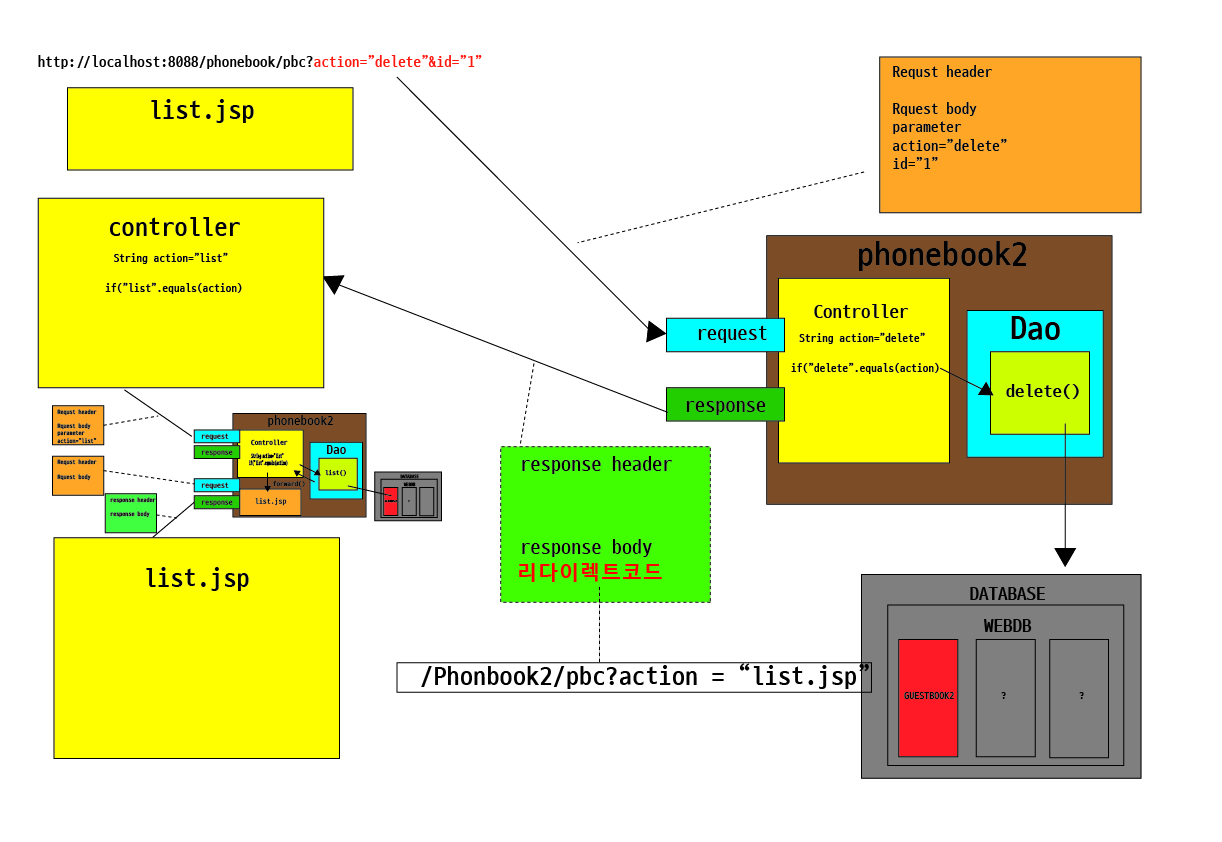
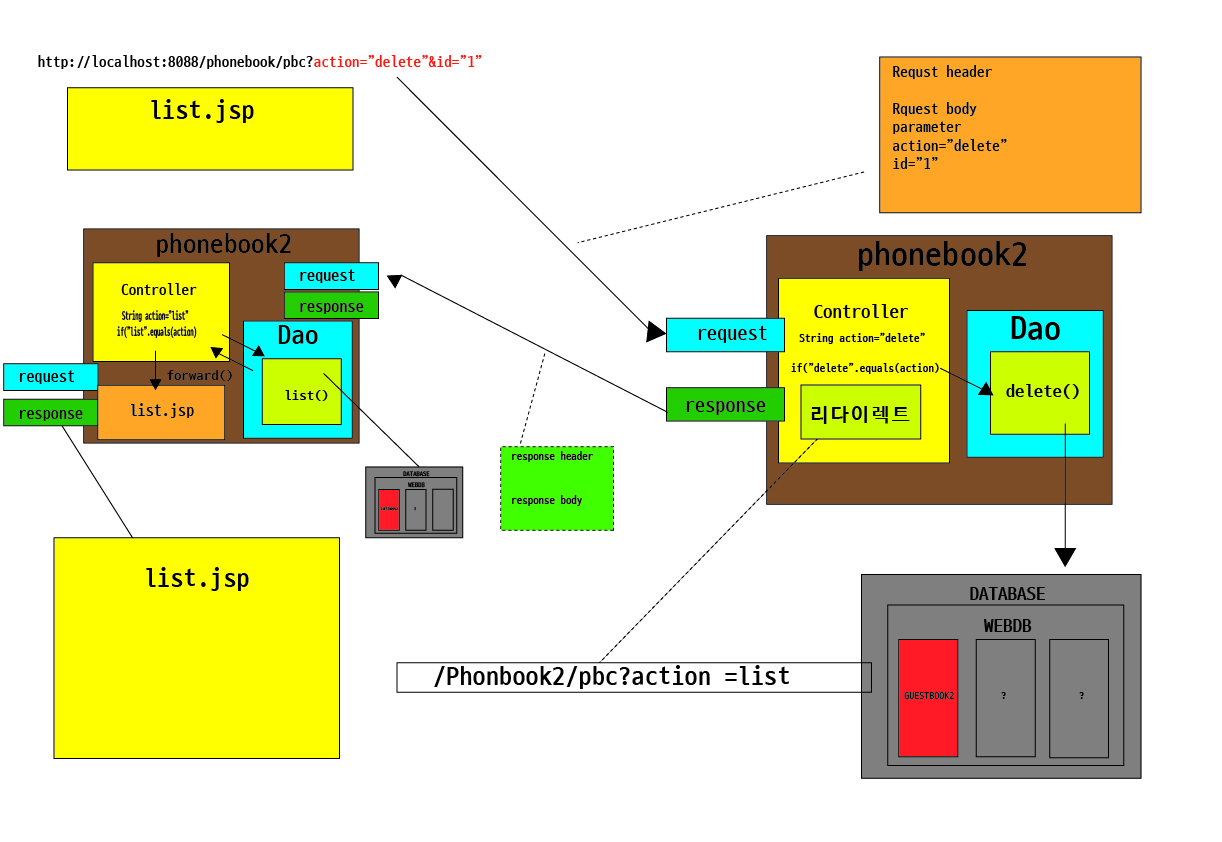
그림수정

diff --git a/src/com/javaex/controller/PhoneController.java b/src/com/javaex/controller/PhoneController.java
@@ -61,6 +61,8 @@ public class PhoneController extends HttpServlet {
 			//dao personInsert
 			phonedao.personInsert(personvo);
 			response.sendRedirect("/phonebook2/pbc?action=list");
+		}else if("delete".equals(action)) {
+			System.out.println("삭제");
 		}
 	}
 
